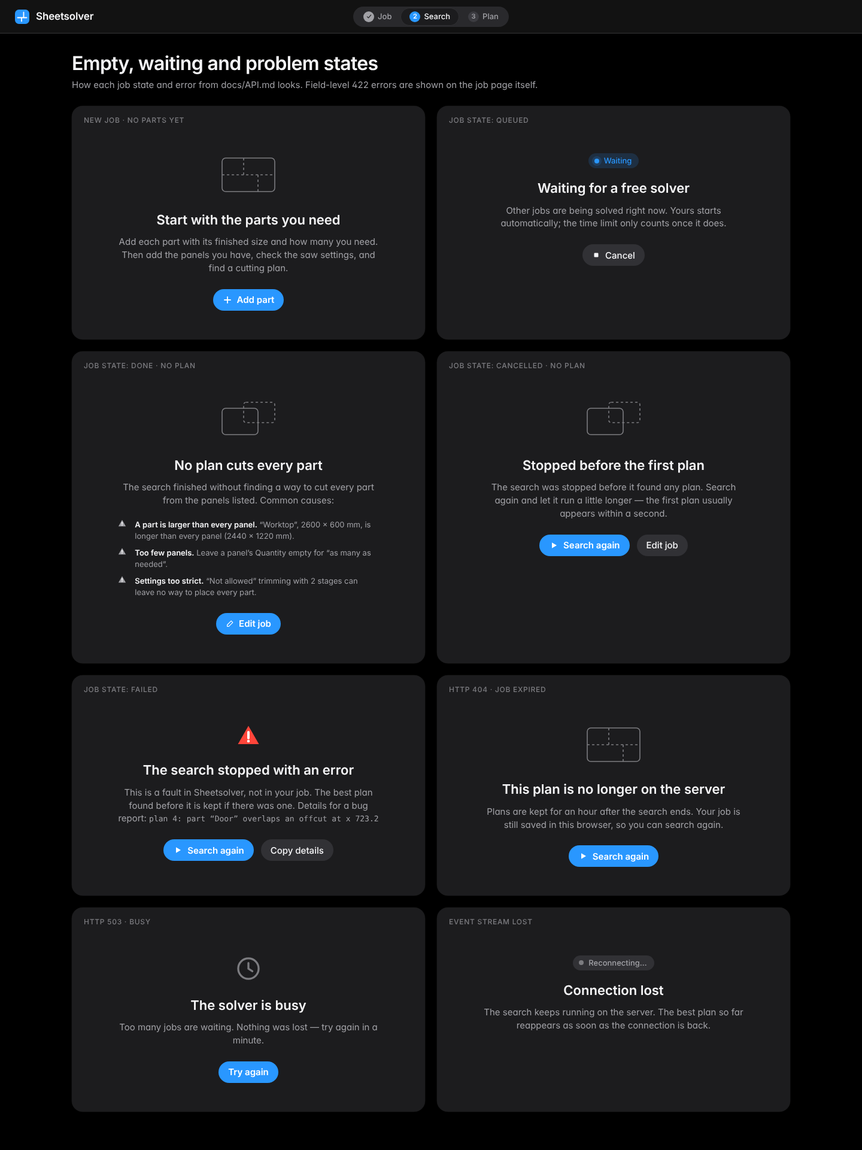
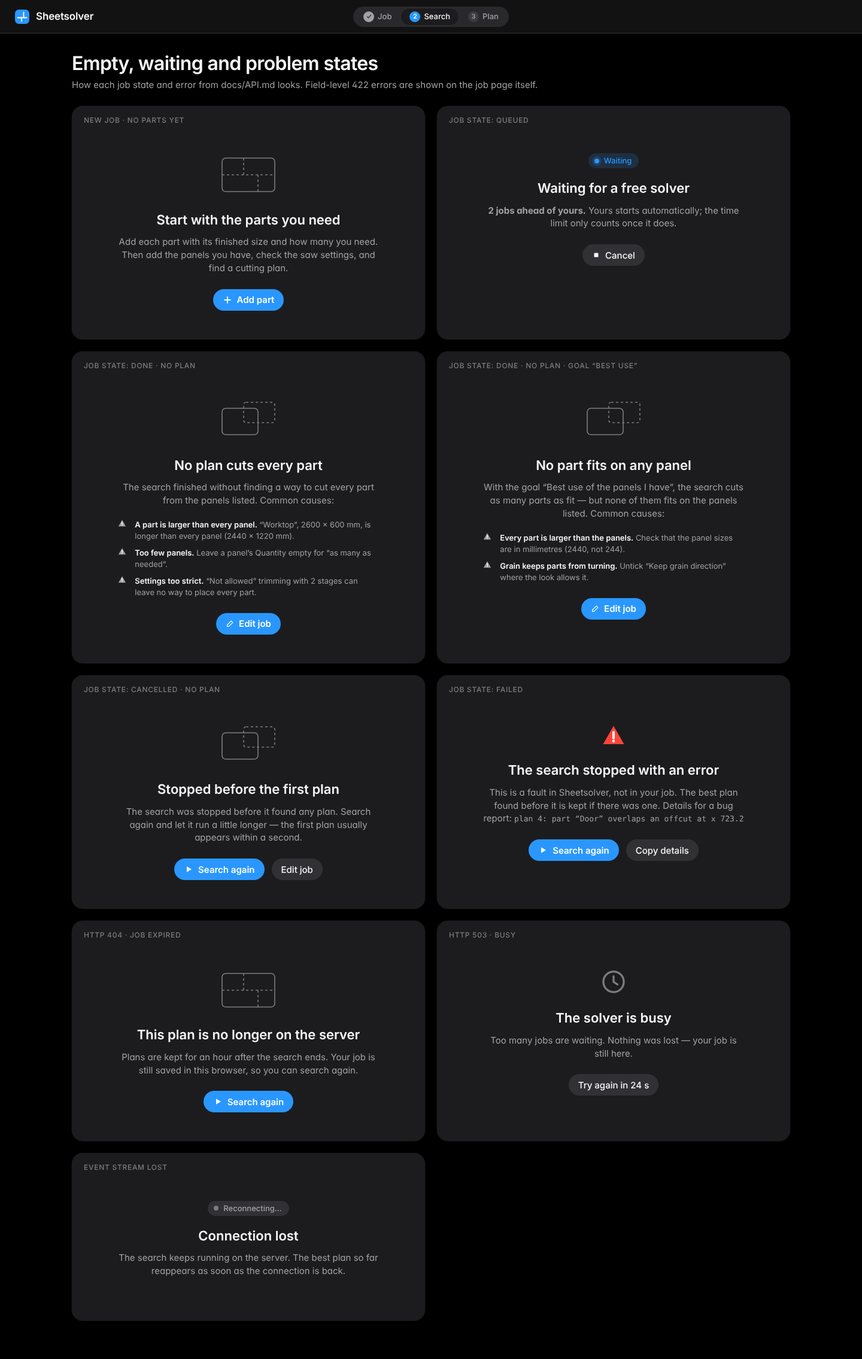
web/DESIGN.md §8: API request status after triage; design follows it
- Status table: done (#4, #7), accepted (#1-3, #5, #6, #9-12, #14-16,
  #18, #20), deferred with the UI fallback (#8 per-panel figures from the
  tree, #13 cut direction from geometry, #19 client checks + 422).
- Adapts to the implementation: no empty plan is served (new 'No part
  fits on any panel' state for Best use), 422 problems in two rounds.
- Uses the accepted items: labels from title, options from oneOf titles,
  ended_by in the plan header (Search longer), queue_position in the
  waiting state, Retry-After countdown, instance in GET /jobs/{id}.
- Mockups and screenshots regenerated.

Claude-Session: https://claude.ai/code/session_01DAeUcSQBNtiTPMpJkJu7uB

Changed region(s): [[0.0625, 0.1249, 0.9375, 0.9995], [0.0, 0.0, 0.9375, 0.2186]]

diff --git a/web/mockups/states.html b/web/mockups/states.html
@@ -552,7 +552,7 @@ table.data .muted { color: var(--text-2); }
 <main class="page">
   <div class="page-head"><div><h1>Empty, waiting and problem states</h1>
   <p class="sub">How each job state and error from docs/API.md looks. Field-level 422 errors are shown on the job page itself.</p></div></div>
-  <div class="state-grid"><section class="card"><div class="state-tag">New job · no parts yet</div><div class="state"><div class="art"><svg width="96" height="72" viewBox="0 0 96 72" aria-hidden="true" fill="none" stroke="currentColor" stroke-width="1.6"><rect x="4" y="8" width="88" height="56" rx="6"/><path d="M4 36h88M40 8v28M64 36v28" stroke-dasharray="4 4"/></svg></div><h2>Start with the parts you need</h2><p>Add each part with its finished size and how many you need. Then add the panels you have, check the saw settings, and find a cutting plan.</p><div class="actions"><button class="btn btn-primary"><svg width="16" height="16" viewBox="0 0 16 16" aria-hidden="true"><path d="M8 3v10M3 8h10" stroke="currentColor" stroke-width="1.8" stroke-linecap="round"/></svg>Add part</button></div></div></section><section class="card"><div class="state-tag">Job state: queued</div><div class="state"><div class="art"><span class="status-pill status-running"><span class="pulse"></span>Waiting</span></div><h2>Waiting for a free solver</h2><p>Other jobs are being solved right now. Yours starts automatically; the time limit only counts once it does.</p><div class="actions"><button class="btn"><svg width="14" height="14" viewBox="0 0 16 16" aria-hidden="true"><rect x="4" y="4" width="8" height="8" rx="1.5" fill="currentColor"/></svg>Cancel</button></div></div></section><section class="card"><div class="state-tag">Job state: done · no plan</div><div class="state"><div class="art"><svg width="96" height="72" viewBox="0 0 96 72" aria-hidden="true" fill="none" stroke="currentColor" stroke-width="1.6"><rect x="4" y="16" width="60" height="44" rx="6"/><rect x="40" y="6" width="52" height="34" rx="4" stroke-dasharray="4 4"/></svg></div><h2>No plan cuts every part</h2><p>The search finished without finding a way to cut every part from the panels listed. Common causes:</p><ul class="hint-list"><li><svg width="14" height="14" viewBox="0 0 16 16" aria-hidden="true"><path d="M8 1.8 15 14H1z" fill="currentColor"/><path d="M8 6v4" stroke="#fff" stroke-width="1.6" stroke-linecap="round"/><circle cx="8" cy="12" r=".9" fill="#fff"/></svg><span><b>A part is larger than every panel.</b> “Worktop”, 2600 × 600 mm, is longer than every panel (2440 × 1220 mm).</span></li><li><svg width="14" height="14" viewBox="0 0 16 16" aria-hidden="true"><path d="M8 1.8 15 14H1z" fill="currentColor"/><path d="M8 6v4" stroke="#fff" stroke-width="1.6" stroke-linecap="round"/><circle cx="8" cy="12" r=".9" fill="#fff"/></svg><span><b>Too few panels.</b> Leave a panel’s Quantity empty for “as many as needed”.</span></li><li><svg width="14" height="14" viewBox="0 0 16 16" aria-hidden="true"><path d="M8 1.8 15 14H1z" fill="currentColor"/><path d="M8 6v4" stroke="#fff" stroke-width="1.6" stroke-linecap="round"/><circle cx="8" cy="12" r=".9" fill="#fff"/></svg><span><b>Settings too strict.</b> “Not allowed” trimming with 2 stages can leave no way to place every part.</span></li></ul><div class="actions"><a class="btn btn-primary" href="#"><svg width="14" height="14" viewBox="0 0 16 16" aria-hidden="true"><path d="M10.5 2.5 13.5 5.5 6 13H3v-3z" fill="none" stroke="currentColor" stroke-width="1.4" stroke-linejoin="round"/></svg>Edit job</a></div></div></section><section class="card"><div class="state-tag">Job state: cancelled · no plan</div><div class="state"><div class="art"><svg width="96" height="72" viewBox="0 0 96 72" aria-hidden="true" fill="none" stroke="currentColor" stroke-width="1.6"><rect x="4" y="16" width="60" height="44" rx="6"/><rect x="40" y="6" width="52" height="34" rx="4" stroke-dasharray="4 4"/></svg></div><h2>Stopped before the first plan</h2><p>The search was stopped before it found any plan. Search again and let it run a little longer — the first plan usually appears within a second.</p><div class="actions"><button class="btn btn-primary"><svg width="16" height="16" viewBox="0 0 16 16" aria-hidden="true"><path d="M5 3.2v9.6L13 8z" fill="currentColor"/></svg>Search again</button><a class="btn" href="#">Edit job</a></div></div></section><section class="card"><div class="state-tag">Job state: failed</div><div class="state"><div class="art"><span style="color:var(--danger)"><svg width="40" height="40" viewBox="0 0 16 16" aria-hidden="true"><path d="M8 1.8 15 14H1z" fill="currentColor"/><path d="M8 6v4" stroke="#fff" stroke-width="1.6" stroke-linecap="round"/><circle cx="8" cy="12" r=".9" fill="#fff"/></svg></span></div><h2>The search stopped with an error</h2><p>This is a fault in Sheetsolver, not in your job. The best plan found before it is kept if there was one. Details for a bug report: <code style="font-size:13px">plan 4: part “Door” overlaps an offcut at x 723.2</code></p><div class="actions"><button class="btn btn-primary"><svg width="16" height="16" viewBox="0 0 16 16" aria-hidden="true"><path d="M5 3.2v9.6L13 8z" fill="currentColor"/></svg>Search again</button><button class="btn">Copy details</button></div></div></section><section class="card"><div class="state-tag">HTTP 404 · job expired</div><div class="state"><div class="art"><svg width="96" height="72" viewBox="0 0 96 72" aria-hidden="true" fill="none" stroke="currentColor" stroke-width="1.6"><rect x="4" y="8" width="88" height="56" rx="6"/><path d="M4 36h88M40 8v28M64 36v28" stroke-dasharray="4 4"/></svg></div><h2>This plan is no longer on the server</h2><p>Plans are kept for an hour after the search ends. Your job is still saved in this browser, so you can search again.</p><div class="actions"><button class="btn btn-primary"><svg width="16" height="16" viewBox="0 0 16 16" aria-hidden="true"><path d="M5 3.2v9.6L13 8z" fill="currentColor"/></svg>Search again</button></div></div></section><section class="card"><div class="state-tag">HTTP 503 · busy</div><div class="state"><div class="art"><span style="color:var(--text-3)"><svg width="44" height="44" viewBox="0 0 16 16" aria-hidden="true"><circle cx="8" cy="8" r="6.2" fill="none" stroke="currentColor" stroke-width="1.2"/><path d="M8 4.6V8l2.4 1.6" fill="none" stroke="currentColor" stroke-width="1.2" stroke-linecap="round"/></svg></span></div><h2>The solver is busy</h2><p>Too many jobs are waiting. Nothing was lost — try again in a minute.</p><div class="actions"><button class="btn btn-primary">Try again</button></div></div></section><section class="card"><div class="state-tag">Event stream lost</div><div class="state"><div class="art"><span class="status-pill" style="background:var(--fill);color:var(--text-2)"><span class="pulse" style="background:var(--text-3);box-shadow:none"></span>Reconnecting…</span></div><h2>Connection lost</h2><p>The search keeps running on the server. The best plan so far reappears as soon as the connection is back.</p><div class="actions"></div></div></section></div>
+  <div class="state-grid"><section class="card"><div class="state-tag">New job · no parts yet</div><div class="state"><div class="art"><svg width="96" height="72" viewBox="0 0 96 72" aria-hidden="true" fill="none" stroke="currentColor" stroke-width="1.6"><rect x="4" y="8" width="88" height="56" rx="6"/><path d="M4 36h88M40 8v28M64 36v28" stroke-dasharray="4 4"/></svg></div><h2>Start with the parts you need</h2><p>Add each part with its finished size and how many you need. Then add the panels you have, check the saw settings, and find a cutting plan.</p><div class="actions"><button class="btn btn-primary"><svg width="16" height="16" viewBox="0 0 16 16" aria-hidden="true"><path d="M8 3v10M3 8h10" stroke="currentColor" stroke-width="1.8" stroke-linecap="round"/></svg>Add part</button></div></div></section><section class="card"><div class="state-tag">Job state: queued</div><div class="state"><div class="art"><span class="status-pill status-running"><span class="pulse"></span>Waiting</span></div><h2>Waiting for a free solver</h2><p><b>2 jobs ahead of yours.</b> Yours starts automatically; the time limit only counts once it does.</p><div class="actions"><button class="btn"><svg width="14" height="14" viewBox="0 0 16 16" aria-hidden="true"><rect x="4" y="4" width="8" height="8" rx="1.5" fill="currentColor"/></svg>Cancel</button></div></div></section><section class="card"><div class="state-tag">Job state: done · no plan</div><div class="state"><div class="art"><svg width="96" height="72" viewBox="0 0 96 72" aria-hidden="true" fill="none" stroke="currentColor" stroke-width="1.6"><rect x="4" y="16" width="60" height="44" rx="6"/><rect x="40" y="6" width="52" height="34" rx="4" stroke-dasharray="4 4"/></svg></div><h2>No plan cuts every part</h2><p>The search finished without finding a way to cut every part from the panels listed. Common causes:</p><ul class="hint-list"><li><svg width="14" height="14" viewBox="0 0 16 16" aria-hidden="true"><path d="M8 1.8 15 14H1z" fill="currentColor"/><path d="M8 6v4" stroke="#fff" stroke-width="1.6" stroke-linecap="round"/><circle cx="8" cy="12" r=".9" fill="#fff"/></svg><span><b>A part is larger than every panel.</b> “Worktop”, 2600 × 600 mm, is longer than every panel (2440 × 1220 mm).</span></li><li><svg width="14" height="14" viewBox="0 0 16 16" aria-hidden="true"><path d="M8 1.8 15 14H1z" fill="currentColor"/><path d="M8 6v4" stroke="#fff" stroke-width="1.6" stroke-linecap="round"/><circle cx="8" cy="12" r=".9" fill="#fff"/></svg><span><b>Too few panels.</b> Leave a panel’s Quantity empty for “as many as needed”.</span></li><li><svg width="14" height="14" viewBox="0 0 16 16" aria-hidden="true"><path d="M8 1.8 15 14H1z" fill="currentColor"/><path d="M8 6v4" stroke="#fff" stroke-width="1.6" stroke-linecap="round"/><circle cx="8" cy="12" r=".9" fill="#fff"/></svg><span><b>Settings too strict.</b> “Not allowed” trimming with 2 stages can leave no way to place every part.</span></li></ul><div class="actions"><a class="btn btn-primary" href="#"><svg width="14" height="14" viewBox="0 0 16 16" aria-hidden="true"><path d="M10.5 2.5 13.5 5.5 6 13H3v-3z" fill="none" stroke="currentColor" stroke-width="1.4" stroke-linejoin="round"/></svg>Edit job</a></div></div></section><section class="card"><div class="state-tag">Job state: done · no plan · goal “Best use”</div><div class="state"><div class="art"><svg width="96" height="72" viewBox="0 0 96 72" aria-hidden="true" fill="none" stroke="currentColor" stroke-width="1.6"><rect x="4" y="16" width="60" height="44" rx="6"/><rect x="40" y="6" width="52" height="34" rx="4" stroke-dasharray="4 4"/></svg></div><h2>No part fits on any panel</h2><p>With the goal “Best use of the panels I have”, the search cuts as many parts as fit — but none of them fits on the panels listed. Common causes:</p><ul class="hint-list"><li><svg width="14" height="14" viewBox="0 0 16 16" aria-hidden="true"><path d="M8 1.8 15 14H1z" fill="currentColor"/><path d="M8 6v4" stroke="#fff" stroke-width="1.6" stroke-linecap="round"/><circle cx="8" cy="12" r=".9" fill="#fff"/></svg><span><b>Every part is larger than the panels.</b> Check that the panel sizes are in millimetres (2440, not 244).</span></li><li><svg width="14" height="14" viewBox="0 0 16 16" aria-hidden="true"><path d="M8 1.8 15 14H1z" fill="currentColor"/><path d="M8 6v4" stroke="#fff" stroke-width="1.6" stroke-linecap="round"/><circle cx="8" cy="12" r=".9" fill="#fff"/></svg><span><b>Grain keeps parts from turning.</b> Untick “Keep grain direction” where the look allows it.</span></li></ul><div class="actions"><a class="btn btn-primary" href="#"><svg width="14" height="14" viewBox="0 0 16 16" aria-hidden="true"><path d="M10.5 2.5 13.5 5.5 6 13H3v-3z" fill="none" stroke="currentColor" stroke-width="1.4" stroke-linejoin="round"/></svg>Edit job</a></div></div></section><section class="card"><div class="state-tag">Job state: cancelled · no plan</div><div class="state"><div class="art"><svg width="96" height="72" viewBox="0 0 96 72" aria-hidden="true" fill="none" stroke="currentColor" stroke-width="1.6"><rect x="4" y="16" width="60" height="44" rx="6"/><rect x="40" y="6" width="52" height="34" rx="4" stroke-dasharray="4 4"/></svg></div><h2>Stopped before the first plan</h2><p>The search was stopped before it found any plan. Search again and let it run a little longer — the first plan usually appears within a second.</p><div class="actions"><button class="btn btn-primary"><svg width="16" height="16" viewBox="0 0 16 16" aria-hidden="true"><path d="M5 3.2v9.6L13 8z" fill="currentColor"/></svg>Search again</button><a class="btn" href="#">Edit job</a></div></div></section><section class="card"><div class="state-tag">Job state: failed</div><div class="state"><div class="art"><span style="color:var(--danger)"><svg width="40" height="40" viewBox="0 0 16 16" aria-hidden="true"><path d="M8 1.8 15 14H1z" fill="currentColor"/><path d="M8 6v4" stroke="#fff" stroke-width="1.6" stroke-linecap="round"/><circle cx="8" cy="12" r=".9" fill="#fff"/></svg></span></div><h2>The search stopped with an error</h2><p>This is a fault in Sheetsolver, not in your job. The best plan found before it is kept if there was one. Details for a bug report: <code style="font-size:13px">plan 4: part “Door” overlaps an offcut at x 723.2</code></p><div class="actions"><button class="btn btn-primary"><svg width="16" height="16" viewBox="0 0 16 16" aria-hidden="true"><path d="M5 3.2v9.6L13 8z" fill="currentColor"/></svg>Search again</button><button class="btn">Copy details</button></div></div></section><section class="card"><div class="state-tag">HTTP 404 · job expired</div><div class="state"><div class="art"><svg width="96" height="72" viewBox="0 0 96 72" aria-hidden="true" fill="none" stroke="currentColor" stroke-width="1.6"><rect x="4" y="8" width="88" height="56" rx="6"/><path d="M4 36h88M40 8v28M64 36v28" stroke-dasharray="4 4"/></svg></div><h2>This plan is no longer on the server</h2><p>Plans are kept for an hour after the search ends. Your job is still saved in this browser, so you can search again.</p><div class="actions"><button class="btn btn-primary"><svg width="16" height="16" viewBox="0 0 16 16" aria-hidden="true"><path d="M5 3.2v9.6L13 8z" fill="currentColor"/></svg>Search again</button></div></div></section><section class="card"><div class="state-tag">HTTP 503 · busy</div><div class="state"><div class="art"><span style="color:var(--text-3)"><svg width="44" height="44" viewBox="0 0 16 16" aria-hidden="true"><circle cx="8" cy="8" r="6.2" fill="none" stroke="currentColor" stroke-width="1.2"/><path d="M8 4.6V8l2.4 1.6" fill="none" stroke="currentColor" stroke-width="1.2" stroke-linecap="round"/></svg></span></div><h2>The solver is busy</h2><p>Too many jobs are waiting. Nothing was lost — your job is still here.</p><div class="actions"><button class="btn" disabled aria-disabled="true">Try again in 24 s</button></div></div></section><section class="card"><div class="state-tag">Event stream lost</div><div class="state"><div class="art"><span class="status-pill" style="background:var(--fill);color:var(--text-2)"><span class="pulse" style="background:var(--text-3);box-shadow:none"></span>Reconnecting…</span></div><h2>Connection lost</h2><p>The search keeps running on the server. The best plan so far reappears as soon as the connection is back.</p><div class="actions"></div></div></section></div>
 </main>
 </body>
 </html>

diff --git a/web/mockups/plan-overview.html b/web/mockups/plan-overview.html
@@ -553,11 +553,13 @@ table.data .muted { color: var(--text-2); }
   
   <div class="page-head">
     <div>
-      <span class="status-pill status-done"><span class="pulse"></span>Search finished</span>
+      <span class="status-pill status-done"><span class="pulse"></span>Search finished · time limit reached</span>
       <h1 style="margin-top:12px">Cutting plan</h1>
-      <p class="sub num">Plan 2, found after 0.9 s of a 10 s search · 3 stages · kerf 3.2 mm</p>
+      <p class="sub num">Plan 2, found after 0.9 s of a 10 s search · 3 stages · kerf 3.2 mm.
+        A longer search may save material.</p>
     </div>
-    <div style="display:flex;gap:8px"><a class="btn" href="#"><svg width="14" height="14" viewBox="0 0 16 16" aria-hidden="true"><path d="M10.5 2.5 13.5 5.5 6 13H3v-3z" fill="none" stroke="currentColor" stroke-width="1.4" stroke-linejoin="round"/></svg>Edit job</a></div>
+    <div style="display:flex;gap:8px"><a class="btn" href="#"><svg width="14" height="14" viewBox="0 0 16 16" aria-hidden="true"><path d="M10.5 2.5 13.5 5.5 6 13H3v-3z" fill="none" stroke="currentColor" stroke-width="1.4" stroke-linejoin="round"/></svg>Edit job</a>
+      <a class="btn btn-tinted" href="#"><svg width="14" height="14" viewBox="0 0 16 16" aria-hidden="true"><path d="M5 3.2v9.6L13 8z" fill="currentColor"/></svg>Search longer</a></div>
   </div>
   <div class="metrics" style="margin-bottom:var(--s-6)">
     <div class="card metric"><div class="label">Panels</div><div class="value">3</div><div class="note">Birch ply 18 mm, 2440 × 1220</div></div>

diff --git a/web/mockups/plan-panel.html b/web/mockups/plan-panel.html
@@ -553,11 +553,13 @@ table.data .muted { color: var(--text-2); }
   
   <div class="page-head">
     <div>
-      <span class="status-pill status-done"><span class="pulse"></span>Search finished</span>
+      <span class="status-pill status-done"><span class="pulse"></span>Search finished · time limit reached</span>
       <h1 style="margin-top:12px">Cutting plan</h1>
-      <p class="sub num">Plan 2, found after 0.9 s of a 10 s search · 3 stages · kerf 3.2 mm</p>
+      <p class="sub num">Plan 2, found after 0.9 s of a 10 s search · 3 stages · kerf 3.2 mm.
+        A longer search may save material.</p>
     </div>
-    <div style="display:flex;gap:8px"><a class="btn" href="#"><svg width="14" height="14" viewBox="0 0 16 16" aria-hidden="true"><path d="M10.5 2.5 13.5 5.5 6 13H3v-3z" fill="none" stroke="currentColor" stroke-width="1.4" stroke-linejoin="round"/></svg>Edit job</a></div>
+    <div style="display:flex;gap:8px"><a class="btn" href="#"><svg width="14" height="14" viewBox="0 0 16 16" aria-hidden="true"><path d="M10.5 2.5 13.5 5.5 6 13H3v-3z" fill="none" stroke="currentColor" stroke-width="1.4" stroke-linejoin="round"/></svg>Edit job</a>
+      <a class="btn btn-tinted" href="#"><svg width="14" height="14" viewBox="0 0 16 16" aria-hidden="true"><path d="M5 3.2v9.6L13 8z" fill="currentColor"/></svg>Search longer</a></div>
   </div>
   <div class="metrics" style="margin-bottom:var(--s-6)">
     <div class="card metric"><div class="label">Panels</div><div class="value">3</div><div class="note">Birch ply 18 mm, 2440 × 1220</div></div>

diff --git a/web/mockups/build/build.py b/web/mockups/build/build.py
@@ -865,11 +865,13 @@ def plan_header(view: str) -> str:
     return f"""
   <div class="page-head">
     <div>
-      <span class="status-pill status-done"><span class="pulse"></span>Search finished</span>
+      <span class="status-pill status-done"><span class="pulse"></span>Search finished · time limit reached</span>
       <h1 style="margin-top:12px">Cutting plan</h1>
-      <p class="sub num">Plan 2, found after {FOUND_AFTER[2]:.1f} s of a 10 s search · 3 stages · kerf {fmt(KERF)} mm</p>
+      <p class="sub num">Plan 2, found after {FOUND_AFTER[2]:.1f} s of a 10 s search · 3 stages · kerf {fmt(KERF)} mm.
+        A longer search may save material.</p>
     </div>
-    <div style="display:flex;gap:8px"><a class="btn" href="#">{icon("edit", 14)}Edit job</a></div>
+    <div style="display:flex;gap:8px"><a class="btn" href="#">{icon("edit", 14)}Edit job</a>
+      <a class="btn btn-tinted" href="#">{icon("play", 14)}Search longer</a></div>
   </div>
   <div class="metrics" style="margin-bottom:var(--s-6)">
     <div class="card metric"><div class="label">Panels</div><div class="value">{M2["panels_used"]}</div><div class="note">Birch ply 18 mm, 2440 × 1220</div></div>
@@ -1051,7 +1053,7 @@ def states_page() -> str:
                    f'<button class="btn btn-primary">{icon("plus")}Add part</button>'),
         state_card("Job state: queued", '<span class="status-pill status-running"><span class="pulse"></span>Waiting</span>',
                    "Waiting for a free solver",
-                   "Other jobs are being solved right now. Yours starts automatically; the time limit only counts once it does.",
+                   "<b>2 jobs ahead of yours.</b> Yours starts automatically; the time limit only counts once it does.",
                    f'<button class="btn">{icon("stop", 14)}Cancel</button>'),
         state_card("Job state: done · no plan", ART_NOPLAN, "No plan cuts every part",
                    "The search finished without finding a way to cut every part from the panels listed. Common causes:",
@@ -1060,6 +1062,12 @@ def states_page() -> str:
                    f'“Worktop”, 2600 × 600 mm, is longer than every panel (2440 × 1220 mm).</span></li>'
                    f'<li>{icon("alert", 14)}<span><b>Too few panels.</b> Leave a panel’s Quantity empty for “as many as needed”.</span></li>'
                    f'<li>{icon("alert", 14)}<span><b>Settings too strict.</b> “Not allowed” trimming with 2 stages can leave no way to place every part.</span></li></ul>'),
+        state_card("Job state: done · no plan · goal “Best use”", ART_NOPLAN, "No part fits on any panel",
+                   "With the goal “Best use of the panels I have”, the search cuts as many parts as fit — but none of them fits on the panels listed. Common causes:",
+                   f'<a class="btn btn-primary" href="#">{icon("edit", 14)}Edit job</a>',
+                   f'<ul class="hint-list"><li>{icon("alert", 14)}<span><b>Every part is larger than the panels.</b> '
+                   f'Check that the panel sizes are in millimetres (2440, not 244).</span></li>'
+                   f'<li>{icon("alert", 14)}<span><b>Grain keeps parts from turning.</b> Untick “Keep grain direction” where the look allows it.</span></li></ul>'),
         state_card("Job state: cancelled · no plan", ART_NOPLAN, "Stopped before the first plan",
                    "The search was stopped before it found any plan. Search again and let it run a little longer — the first plan usually appears within a second.",
                    f'<button class="btn btn-primary">{icon("play")}Search again</button><a class="btn" href="#">Edit job</a>'),
@@ -1072,8 +1080,8 @@ def states_page() -> str:
                    "Plans are kept for an hour after the search ends. Your job is still saved in this browser, so you can search again.",
                    f'<button class="btn btn-primary">{icon("play")}Search again</button>'),
         state_card("HTTP 503 · busy", f'<span style="color:var(--text-3)">{icon("clock", 44)}</span>', "The solver is busy",
-                   "Too many jobs are waiting. Nothing was lost — try again in a minute.",
-                   f'<button class="btn btn-primary">Try again</button>'),
+                   "Too many jobs are waiting. Nothing was lost — your job is still here.",
+                   f'<button class="btn" disabled aria-disabled="true">Try again in 24 s</button>'),
         state_card("Event stream lost", '<span class="status-pill" style="background:var(--fill);color:var(--text-2)"><span class="pulse" style="background:var(--text-3);box-shadow:none"></span>Reconnecting…</span>',
                    "Connection lost",
                    "The search keeps running on the server. The best plan so far reappears as soon as the connection is back.",

diff --git a/web/DESIGN.md b/web/DESIGN.md
@@ -124,7 +124,8 @@ to the workshop tablet resumes it:
   to it.
 
 **Search** (`solving.html`)
-- A status pill ("Searching", or "Waiting" when queued), a title, and
+- A status pill ("Searching", or "Waiting" with "*n* jobs ahead of
+  yours" from `queue_position` when queued), a title, and
   one line explaining that the best plan so far is shown and replaced.
 - A time bar: `elapsed` of `time_limit`, animated client-side between
   events.
@@ -145,7 +146,10 @@ to the workshop tablet resumes it:
 
 **Plan: overview** (`plan-overview.html`)
 - A header with a status pill (Search finished / Stopped), "Plan *n*,
-  found after *t* s of a *T* s search", stages and kerf.
+  found after *t* s of a *T* s search", stages and kerf. With
+  `ended_by: "complete"`, it says "The best plan this search can find".
+  With `"time_limit"`, it says "Time limit reached — a longer search may
+  save material" and offers *Search again with more time*.
 - Four figures: Panels, Parts cut, Waste (% and m²), and Leftover
   (size, if any) or, for the "Shortest length/width" goals, the used
   length or width.
@@ -229,11 +233,13 @@ The empty Parts card says how to start (`states.html`, "New job").
 2. *On submit*, the server is the authority. A `422` comes back with
    `problems[]`. Each `field` path (`instance.parts[1].width`) is mapped
    to its row and column: the cell gets the error style, the message
-   appears under the row, and a summary banner at the top lists every
+   appears under the row, and a summary banner at the top lists each
    problem as a link that scrolls to and focuses the field
    (`editor-errors.html`). A problem about a whole list
    (`instance.parts`) attaches to the card heading. One with
-   `field: null` stays in the banner only.
+   `field: null` stays in the banner only. The server reports problems
+   in two rounds (wrong types, then validation), so fixing the first
+   batch can reveal more; the banner never claims the list is complete.
 3. Problems clear as soon as their field is edited. No resubmission is
    needed to see the error disappear.
 
@@ -258,9 +264,15 @@ sent as is, so positions in `problems` always match row numbers.
    `cancelled` state arrives.
 
 **Opening a link later.** `GET /jobs/{id}`:
-- `404` means expired: offer *Search again* from the draft saved in
-  this browser (see the open question in §9).
-- `best: null` in a final state shows the no-plan states.
+- The status includes the job's `instance` (§8, #18), so the plan,
+  the parts summary and *Edit job* work on any device, not only on the
+  one that submitted.
+- `404` means expired (or a mistyped link): offer *Search again* from
+  the draft saved in this browser, if there is one (see the open
+  question in §9).
+- `best: null` in a final state shows the no-plan states, including
+  "No part fits on any panel" for the goal "Best use of the panels I
+  have" (the API never serves an empty plan).
 
 **At the saw.** Open *Panel by panel* → panel 1, cut 1 → step with › or
 by tapping. Finished panels can be ticked off in the thumbnail strip
@@ -434,7 +446,8 @@ a workshop.
   limit) show the **full `FIELDS.md` help text directly under the
   control**, always.
 - **Option fields** (Goal, Last-stage trimming, First cuts): the option
-  names are the **bold** words of the help text. The sentence about the
+  names come from the schema's `oneOf` titles (§8, #2); they are the
+  same words as the **bold** names in the help text. The sentence about the
   selected option (from its bold name to the next one) is shown in the
   primary colour, with the name in the accent; the rest stays
   secondary. The words never change: this only directs the eye.
@@ -451,8 +464,8 @@ a workshop.
 - **Source.** Help text comes from the `description` of each property
   in `openapi.json` (§7). Its markup is rendered: `**bold**` becomes
   `<strong>` and `*italic*` becomes `<em>` (FIELDS.md uses `*Value*`).
-  Nothing else is interpreted. Labels must come from the same place
-  (see §8, missing `title`).
+  Nothing else is interpreted (API: bold and italic only). Labels come
+  from each property's `title`, also generated from FIELDS.md (§8, #1).
 
 ---
 
@@ -499,7 +512,7 @@ a workshop.
 | API types | **openapi-typescript** generates `src/api/schema.d.ts` from `openapi.json` | One source of truth: Rust types → utoipa → OpenAPI → TS. A Rust type change that breaks the UI fails `npm run check` in the same change (`ARCHITECTURE.md`). |
 | API calls | **openapi-fetch** (a tiny typed `fetch`) for `POST/GET/DELETE /jobs` | Paths, bodies and responses typed from the schema, no hand-written client. |
 | Events | A ~40-line typed wrapper around the browser's `EventSource` | OpenAPI cannot describe SSE well; the wrapper uses the generated `PlanReport` and `StateEvent` schemas (see §8.1) and closes on final states. |
-| Help text and labels | `scripts/gen-fields.ts` reads `openapi.json` and writes `src/api/fields.generated.ts`: `{ "instance.parts[].length": { label, help, default, minimum, … } }` | Types carry descriptions only as comments; the UI needs them at run time. Every input component takes a `field` key typed as a union of the generated keys, so **an input without help text does not compile**. |
+| Help text and labels | `scripts/gen-fields.ts` reads `openapi.json` and writes `src/api/fields.generated.ts`: `{ "instance.parts[].length": { label, help, default, minimum, multipleOf, options, … } }` from `title`, `description`, `default`, bounds and `oneOf` titles | Types carry descriptions only as comments; the UI needs them at run time. Every input component takes a `field` key typed as a union of the generated keys, so **an input without help text does not compile**. |
 | State | Svelte runes; the draft job is kept in `localStorage` (wrapped in try/catch) | No server persistence (Open in `SCOPE.md`); losing the draft on reload would hurt. |
 | Plan geometry | Pure TS module `src/plan/` (cut order, label fitting, statistics) with unit tests | Mirrors the mockup generator's logic; easy to test against golden files. |
 | Tests | **Vitest** (logic), **Playwright** (end-to-end against `cargo run -p api`) | The Stage 7 exit criterion "enter instance → solve → see a valid plan" is one Playwright test; another fails if any input lacks visible help text. |
@@ -531,35 +544,62 @@ shows contract changes.
 
 ## 8. API requirements from the UI
 
-What the UI uses from `docs/API.md`, and what is missing or awkward.
-`docs/API.md` is being implemented in parallel and may change, so these
-are requests, not changes made here.
+What the UI needs from `docs/API.md`, and what was missing or awkward
+in the first version of the contract. The orchestrating session triaged
+these requests on 2026-10-25. The API is on branch `claude/stage6-api`;
+its `docs/API.md` lists what changed in its *Changes* section. The
+detailed items below keep the original reasoning. This table is the
+current status.
 
-### Summary of requests (for triage)
+### Status of the requests
 
-Numbers refer to the detailed items below. **Priority:** *High* means
-cheap now and awkward to retrofit; *Medium* means clearly better UX;
-*Low* is nice to have. None changes scope, except where marked.
+**Status:** ✅ *done* means already in `docs/API.md` on
+`claude/stage6-api`; 🔨 *accepted* means being implemented there;
+⏸ *deferred* means not for now, and the UI uses its fallback.
 
-| # | Request | Screen / interaction that needs it | Fallback without it | Priority |
+| # | Request | Status | Screen / interaction | What the UI does |
 |---|---|---|---|---|
-| 1 | `title` = FIELDS.md UI label on every property in `openapi.json` | Every input's label (editor) | Labels hard-coded in the UI; can drift from FIELDS.md | High |
-| 2 | Per-value option names for `objective`, `cut_type`, `first_cuts`, `stages` (`oneOf` + `const` + `title`) | Goal options, segmented controls (editor) | Parsed from the bold words of the help text (fragile) or hard-coded | High |
-| 3 | `default`, `minimum`/`maximum`, `multipleOf: 0.1` in the schema | New job defaults; validation as you type (editor) | Defaults and bounds copied by hand into the UI | High |
-| 4 | Named `PlanReport` and `StateEvent` schemas | Typed SSE handling (search progress) | Hand-written TS types for the events | High |
-| 7 | `--print-openapi` (or a build-time file) | UI build and CI without a running server | CI starts the API to fetch `/openapi.json` | Medium |
-| 9 | `ended_by: "complete" \| "time_limit"` on the status and the final `state` event | Plan header advice: "best this search can do" vs "a longer search may save material" | Neutral wording: "Search finished" | Medium |
-| 13 | `cuts: "along_length" \| "across_length"` on every `piece` with children | Cut order list and badges (panel view), above all for unlimited stages | Direction inferred from the children's geometry (works, implicit) | Medium |
-| 18 | The instance in `GET /jobs/{id}` (or `GET /jobs/{id}/instance`) | Plan opened from a link on another device: parts summary, parts not cut, *Edit job* | Shows only what the plan tree holds; *Edit job* works only in the browser that submitted | Medium |
-| 8 | Per-pattern `metrics` | Panel header and overview cards (waste, parts per panel) | Computed from the tree in the UI (done in the mockups) | Low |
-| 10 | `queue_position` for `queued` jobs | "Waiting for a free solver" state | "Waiting…" without a count | Low |
-| 11 | `Retry-After` on `503 busy` | Busy state, retry button | Fixed retry hint ("try again in a minute") | Low |
-| 19 | `POST /instances/validate` (dry run, same `problems`) | Server-side problems shown before submitting (editor) | Client checks + 422 on submit (enough for v1) | Low |
-| 12, 14, 15, 16, 20 | Documentation only: children in position order; trimming appears as stage `stages + 1`; wrapper pieces; sub-kerf offcuts; `problems[].field` positions = submitted arrays | Cut order derivation, error mapping | The UI relies on today's behaviour | High (it's only docs) |
-| 5, 6 | `stages` type (`2 \| 3 \| "unlimited"`); help-text markup (`*italic*` used in FIELDS.md) | Generated types; help rendering | Works as is; the UI renders bold and italic | Low |
+| 1 | `title` = FIELDS.md UI label on every property | 🔨 accepted | Every input's label (editor) | Labels come from `title` via `fields.generated.ts` (§7) |
+| 2 | Option names per enum value (`oneOf` + `const` + `title`) | 🔨 accepted | Goal options, segmented controls (editor) | Option names come from `oneOf` titles, not from the bold words |
+| 3 | `default`, `minimum`/`maximum`, `multipleOf: 0.1` | 🔨 accepted | New job defaults; validation as you type | Defaults and client checks are generated from the schema |
+| 4 | Named `PlanReport` and `StateEvent` schemas | ✅ done | Typed SSE handling (search) | The `EventSource` wrapper uses the generated types |
+| 5 | `stages` type | 🔨 accepted (documented): stays `2 \| 3 \| "unlimited"` | Stages segmented control | Maps the union to "2", "3", "Unlimited" |
+| 6 | Help-text markup | 🔨 accepted: bold and italic only | All help text | Renders `**bold**` and `*italic*`, nothing else |
+| 7 | `cargo run -p api -- --print-openapi` | ✅ done | UI build and CI | `npm run gen` writes `web/openapi.json` from it |
+| 8 | Per-pattern `metrics` | ⏸ deferred | Panel header, overview cards | **Computed from the tree** in `src/plan/` (as the mockups do), with unit tests against golden plans |
+| 9 | `ended_by: "complete" \| "time_limit"` | 🔨 accepted | Plan header and search end | "Best plan this search can find" vs "Time limit reached; a longer search may save material" |
+| 10 | `queue_position` for `queued` jobs | 🔨 accepted | Waiting state | "2 jobs ahead of yours" |
+| 11 | `Retry-After` on `503 busy` | 🔨 accepted | Busy state | Counts down, then enables *Try again* |
+| 12 | Children listed in position order | 🔨 accepted (docs) | Cut order | Relied on |
+| 13 | `cuts` direction on every `piece` | ⏸ deferred | Cut order, badges (above all for unlimited stages) | **Inferred from geometry**: children with the same `y` are cut across, otherwise along. One child: across if it is shorter in length. Unit-tested on unlimited-stage golden plans |
+| 14 | Trimming appears as stage `stages + 1` | 🔨 accepted (docs) | Cut order ("trim") | Relied on |
+| 15 | Wrapper pieces (single child of the same size) | 🔨 accepted (docs) | Cut order | Skipped: no cut |
+| 16 | Sub-kerf offcuts | 🔨 accepted (docs) | Drawing, offcut list | Shown as saw dust, unlabelled |
+| 18 | The instance in `GET /jobs/{id}` | 🔨 accepted | A plan opened from a link on another device; *Edit job* | Parts summary, parts not cut, and *Edit job* work on any device; the local draft is only a convenience |
+| 19 | `POST /instances/validate` | ⏸ deferred | Server-side problems before submitting | Client checks while typing, plus the 422 on submit |
+| 20 | `problems[].field` positions = submitted arrays | 🔨 accepted (docs) | 422 mapping to rows | Relied on; rows are sent in display order and never dropped |
 
-No request needs server-side persistence. The local draft (§9.1) is
-browser-only.
+No request needed server-side persistence.
+
+### Behaviour the UI adapts to (from the API implementation)
+
+- **An empty plan is never served.** `best` always cuts at least one
+  part. With "Best use of the panels I have", `best` stays `null` when
+  no part fits on any panel. The UI shows a no-plan state for that
+  goal too ("No part fits on any panel", see `states.html`), with the
+  same causes as for "Use as few panels as possible" (a part larger than
+  every panel, settings too strict) but without "too few panels".
+- **422 problems come in two rounds**: wrong types first, then
+  `Instance::validate`. The banner says "Fix the highlighted fields,
+  then find the plan again" and never promises the list is complete. In
+  practice the first round rarely reaches the user, because the
+  client-side checks (§3, generated from the schema per #3) catch
+  missing and mistyped fields before submitting. `field: null` now
+  means only that the body was not a JSON object, which the UI never
+  sends; it would be shown in the banner only.
+- `404` also for a malformed id, so the "no longer on the server" state
+  covers links that were mistyped or truncated.
+- Times are rounded to the millisecond; the UI shows them to 0.1 s.
 
 ### What the UI uses
 
